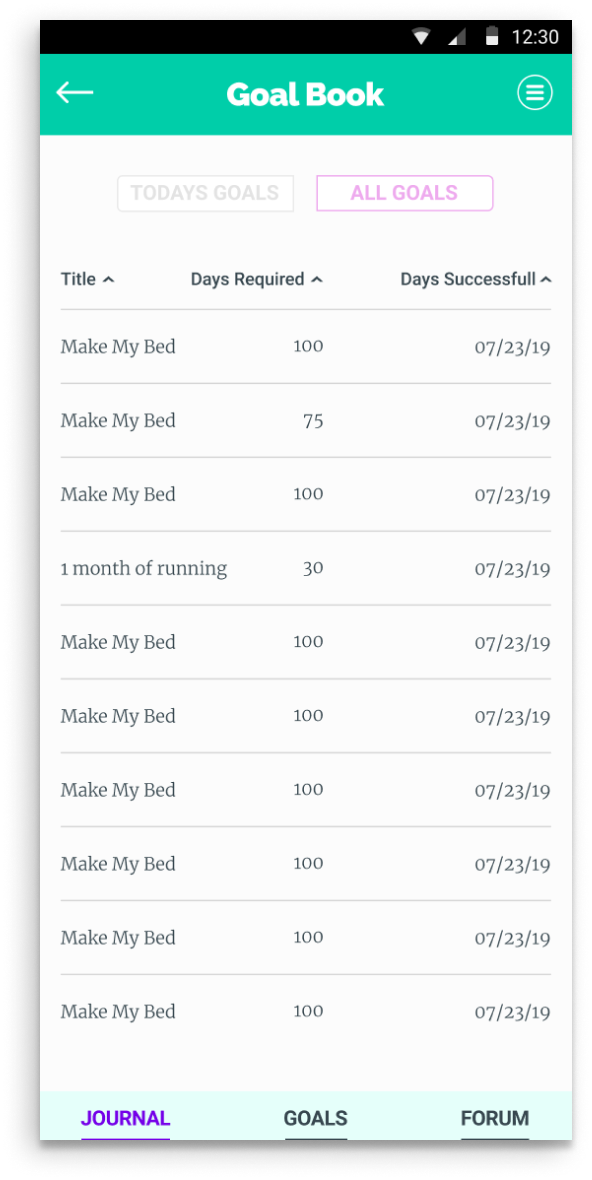
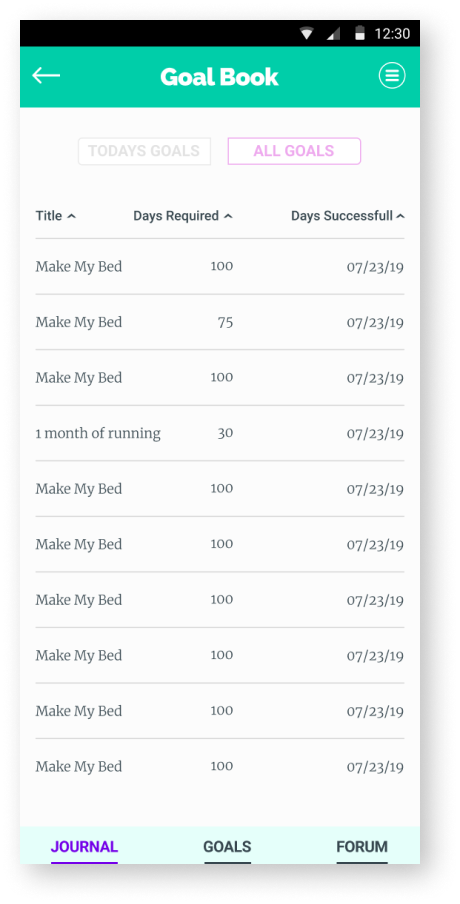
new images, centered,- fix readability

diff --git a/GOALBOOK.html b/GOALBOOK.html
@@ -537,28 +537,26 @@
 	<section class="mckupSec">
 			<div class="mainHed"><h4>Mockups</h4></div>
 
-		<ul class="mainCont">
-		<li class="mckTxt">
+		<ul class="mckCont">
+		<li class="mainList">
 			<h3>Designing my visual mockups alongside my Branding:
 				The following mockups are listed chronologically, and for brevity- only the main screens are presented.<br>
 				I began with a mix of Material Design 1 + 2, as it is trusted, efficient, and accessible.<br>
 		</li>
-		<li class="mckList">
-				<img alt="mckup1" src="./GBimages/mckup1.png">
-				<img alt="mckup2" src="./GBimages/mckup2.png"><br>
-				<img alt="mckup3" src="./GBimages/mckup3.png">
-				<img alt="mckup4" src="./GBimages/mckup4.png">
-		</li>
+		<li class="mainList"><img alt="mckup1" src="./GBimages/mckup1.png"></li>
+		<li class="mainList">		<img alt="mckup2" src="./GBimages/mckup2.png">	</li>
+		<li class="mainList">		<img alt="mckup3" src="./GBimages/mckup3.png">	</li>
+
 		<li class="chkMrk">
 				<img alt="redMrk1" src="./GBimages/redMrk.png"><h3>Accessibility Concerns: Check color contrasts, yellow in particular</h3>
             </li>
         </ul>
 
         <ul class="mckCont">
-            <li class="mckList">
+            <li class="mainList">
                 <img alt="mckup5" src="./GBimages/mckup5.png">
                 <img alt="mckup6" src="./GBimages/mckup6.png">
-                <br>
+
                 <img alt="mckup7" src="./GBimages/mckup7.png">
             </li>
             <li class="chkMrk">
@@ -573,7 +571,7 @@
         </div>
 
         <ul class="mckCont">
-            <li class="mckList">
+            <li class="mainList">
                 <img alt="mckup8" src="./GBimages/mckup8.png">
                 <img alt="mckup9" src="./GBimages/mckup9.png">
             </li>
@@ -591,13 +589,11 @@
         </div>
 
         <ul class="mckCont">
-            <li class="mckList">
+            <li class="mainList">
                 <img alt="mckup10" src="./GBimages/mckup10.png">
                 <img alt="mckup12x" src="./GBimages/mckup11.png">
             </li>
             <li class="chkMrk">
-                <img alt="grnMrk1" src="./GBimages/grnMrk.png">
-                <h3>Large Iteration: Leave MD, begin PWA: Personal Brand focus</h3>
                 <img alt="grnMrk1" src="./GBimages/grnMrk.png">
                 <h3>Pen Logo ‘complete’</h3>
                 <img alt="grnMrk1" src="./GBimages/grnMrk.png">
@@ -609,12 +605,14 @@
         </div>
 
         <ul class="mckCont">
-            <li class="mckList">
+            <li class="mainList">
                 <img alt="mckup13" src="./GBimages/mckup13.png">
                 <img alt="mckup13" src="./GBimages/mckup14.png">
             </li>
 
-            <li class="prpMrk">
+            <li class="chkMrk">
+                <img alt="grnMrk1" src="./GBimages/grnMrk.png">
+                <h3>Large Iteration: Leave MD, begin PWA: Personal Brand focus</h3>
                 <img alt="prpMrk" src="./GBimages/prpMrk.png">
                 <h3>Focused on getting Goals(Home) list ‘just right’</h3>
                 <img alt="prpMrk" src="./GBimages/prpMrk.png">
@@ -625,7 +623,7 @@
         </ul>
 
         <ul class="mckCont">
-            <li class="mckList">
+            <li class="mainList">
                 <img alt="mckup15" src="./GBimages/mckup15.png">
                 <img alt="mckup16" src="./GBimages/mckup16.png">
                 <br>
@@ -657,25 +655,21 @@
             <h4>Mockups & Testing</h4></div>
 
         <ul class="mckCont">
-            <li class="mckTxt">
+            <li class="mainList">
                 <h3>Filling out the prototype with a Splash, Desktop and other remaining screens, explain this more.... like How
 					did you get to this point and bring it all togetherr like more text more text more content and text<br>
 			</li>
 			<li id="mckupGD">	<img alt="mckupGD" src="./GBimages/mckupG0.png"><br>
 			</li>
-			<li class="mckList">
+			<li class="mainList">
 					<img alt="mckup2" src="./GBimages/mckupG1.png"><br>
 					<img alt="mckup3" src="./GBimages/mckupG2.png">
 			</li>
-			<li class="mckTxt"><h3>Prototype Testing, Most used features:<br>
+			<li class="mainList"><h3>Prototype Testing, Most used features:<br>
 													1:Sign In, 2:Create Goal, & 3:Mark Goal Complete</h3>
             </li>
-            <li class="chkMrk">
-                <img alt="redMrk1" src="./GBimages/redMrk.png">
-                <h3>Accessibility Concerns: Check color contrasts, yellow in particular</h3>
-            </li>
 
-            <li class="mckList">
+            <li class="mainList">
                 <img alt="mckupTst1" src="./GBimages/mckupTst1.png">
                 <br>
                 <img alt="mckupTst3" src="./GBimages/mckupTst3.png">
@@ -690,7 +684,7 @@
                 <img alt="redMrk1" src="./GBimages/redMrk.png">
                 <h3>Misclicks: Difference in “Todays Goals” & “All Goals” content is unclear</h3>
             </li>
-                <li class="mckList">
+                <li class="mainList">
                 <img alt="mckupTst2" src="./GBimages/mckupTst2.png">
             </li>
 
@@ -704,7 +698,7 @@
         </ul>
 
         <ul class="mckCont">
-            <li class="mckList">
+            <li class="mainList">
                 <img alt="mckupG5" src="./GBimages/mckupG5.png">
                 <img alt="mckupG7" src="./GBimages/mckupG7.png">
             </li>
@@ -722,14 +716,14 @@
             </li>
         </ul>
 
-        <ul class="mainCont">
+        <ul class="mckCont">
             <li class="mainList">
                 <h3>More intensive critique from a Senior Designer guided the ‘final’ iteration, tightenting up the usability.<br>
 					</li>
 
 
 
-            <li class="mckList">
+            <li class="mainList">
                 <img alt="mckupG8" src="./GBimages/mckupG8.png">
                 <br>
                 <img alt="mckupG9" src="./GBimages/mckupG9.png">
@@ -749,7 +743,7 @@
                   <h3>Removed Hamburger Menu: Moving secondary features to the Bottom-Nav. Emphasize the main
   												features, also making it more efficient and concise.</h3>
               </li>
-            <li class="mckTxt">
+            <li class="mainList">
                 <h3>Test early and test often. Any amount of testing or critique creates a chance to shift perspective and analyze my design from another view.
 
 Sharing my designs is intimidating, and once they are open to the public - a new level of pressure and responsibility is created.

diff --git a/css/styleGb.css b/css/styleGb.css
@@ -267,6 +267,11 @@
 .mainList {
 		width: 90vw;
 }
+.mainList img {
+    max-width: 255px;
+    width:90vw;
+
+}
 .mainList h1, .roleList h1{
 		color: #1E0075;
 }
@@ -393,65 +398,7 @@
  li#cta2 img {
      width: 325px;
 }
- #primary1 {
-     width: 100px;
-     height: 100px;
-     background: #1E0075;
-}
- #secondary1 {
-     width: 100px;
-     height: 100px;
-     background: #109AE8;
-}
- #accent1 {
-     width: 100px;
-     height: 100px;
-     background: #ABE0F7;
-}
- #cta{
-     width: 100px;
-     height: 100px;
-     background: #00F0C5;
-}
- #cta22 {
-     width: 100px;
-     height: 100px;
-     background: #FF62FF;
-}
- #black {
-     width: 100px;
-     height: 100px;
-     background: #37474F;
-}
- #grey{
-     width: 100px;
-     height: 100px;
-     background: #D6D6D6;
-}
- #grey2 {
-     width: 100px;
-     height: 100px;
-     background: #EAEAEA;
-}
- #white {
-     width: 100px;
-     height: 100px;
-     background: #FCFCFC;
-}
- .mckList img {
-     width: 40vw;
-     max-width: 250px;
-}
- .mckMrks {
-     width: 80vw;
-}
- .mckMrks img {
-     float: left;
-     margin-right: .25rem;
-     width: 20px;
-}
-/* FINAL MOCKUPS ///////////////////////////////////////////////////////////
-/*/
+/* ---------MOCKUPS ----------------------------------------------------------*/
  li#mckupGD img{
      border-color: #FFA8F6;
      border-radius: 2px;
@@ -459,10 +406,88 @@
      border-width: 3px;
      width: 80vw;
 }
+.mckList {
+  width: 98vw;
+}
+ .mckList img {
+     width: 80vw;
+     max-width: 250px;
+}
+.mckCont {
+    align-items: center;
+    text-align: center;
+    display: grid;
+    empty-cells: show;
+    grid-gap: 1rem;
+    grid-template-columns: minmax(0, auto);
+    grid-template-rows: minmax(0, auto);
+    justify-items: center;
+    margin: 0 auto;
+    margin-top: 1rem;
+    width: 98vw;
+}
+
+
+
+
+
+
 /* COLORS Blue:#ABE0F7;
  /// Pink: #FFA8F6;
  //// Purple:#1E0075;
  purple2 #1D02C2
+
+
+
+
+  #primary1 {
+      width: 100px;
+      height: 100px;
+      background: #1E0075;
+ }
+  #secondary1 {
+      width: 100px;
+      height: 100px;
+      background: #109AE8;
+ }
+  #accent1 {
+      width: 100px;
+      height: 100px;
+      background: #ABE0F7;
+ }
+  #cta{
+      width: 100px;
+      height: 100px;
+      background: #00F0C5;
+ }
+  #cta22 {
+      width: 100px;
+      height: 100px;
+      background: #FF62FF;
+ }
+  #black {
+      width: 100px;
+      height: 100px;
+      background: #37474F;
+ }
+  #grey{
+      width: 100px;
+      height: 100px;
+      background: #D6D6D6;
+ }
+  #grey2 {
+      width: 100px;
+      height: 100px;
+      background: #EAEAEA;
+ }
+  #white {
+      width: 100px;
+      height: 100px;
+      background: #FCFCFC;
+ }
+
+
+
 /* FOOTER */
  .footerContainer {
      background-color: #FCFCFC;
